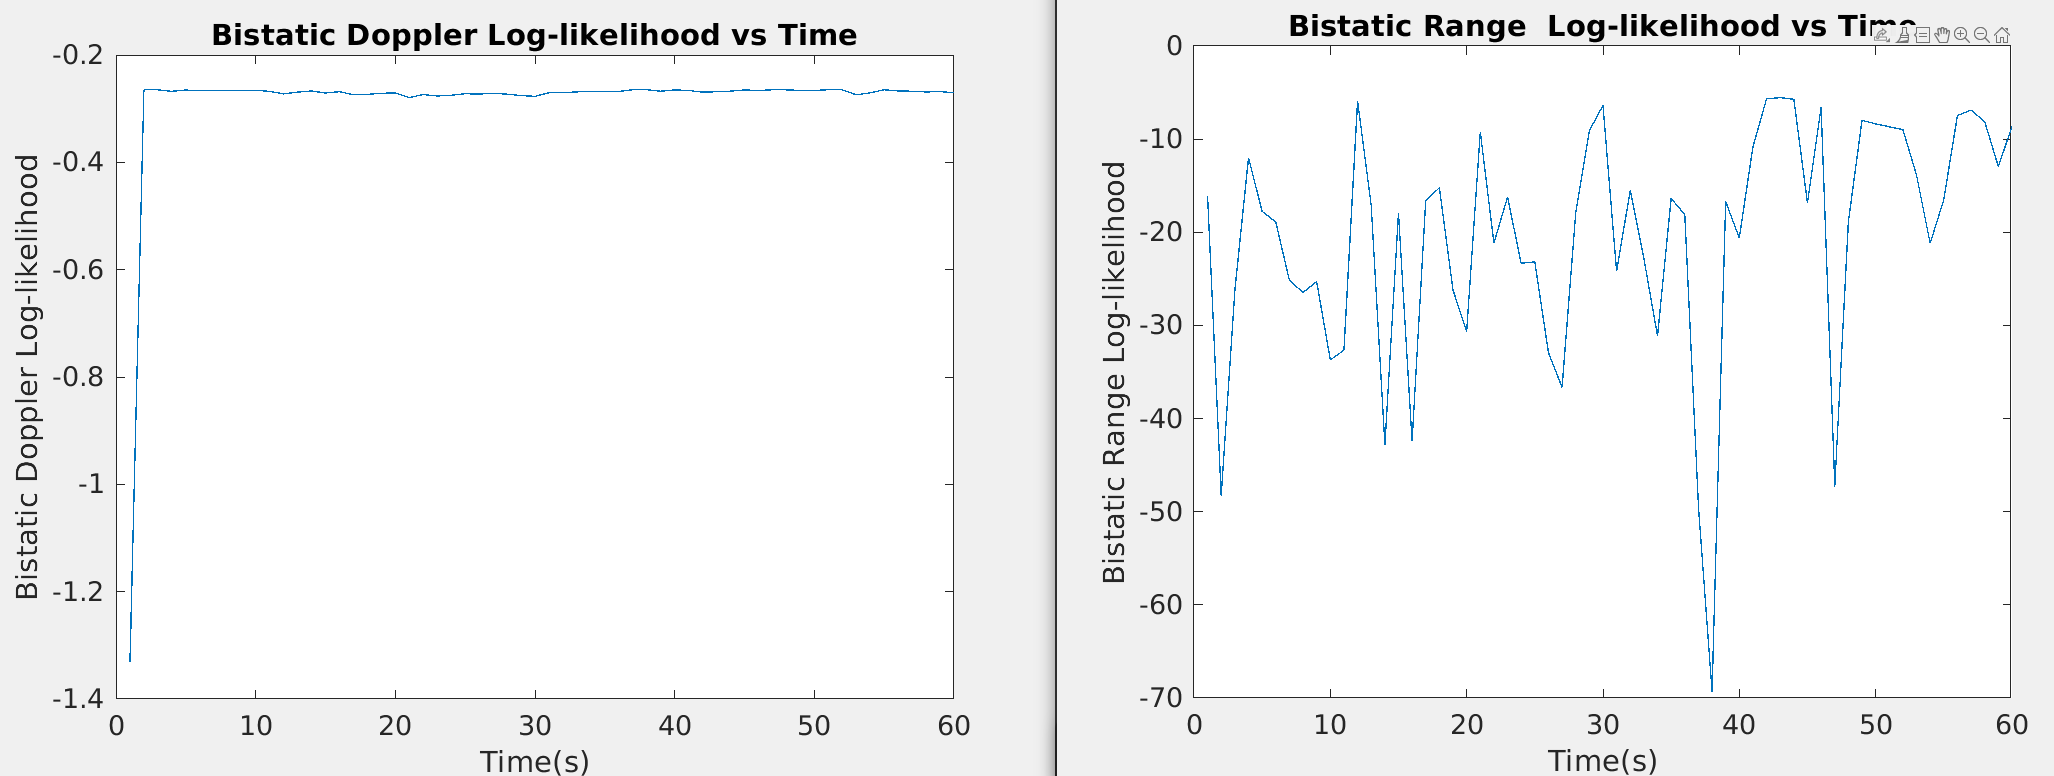
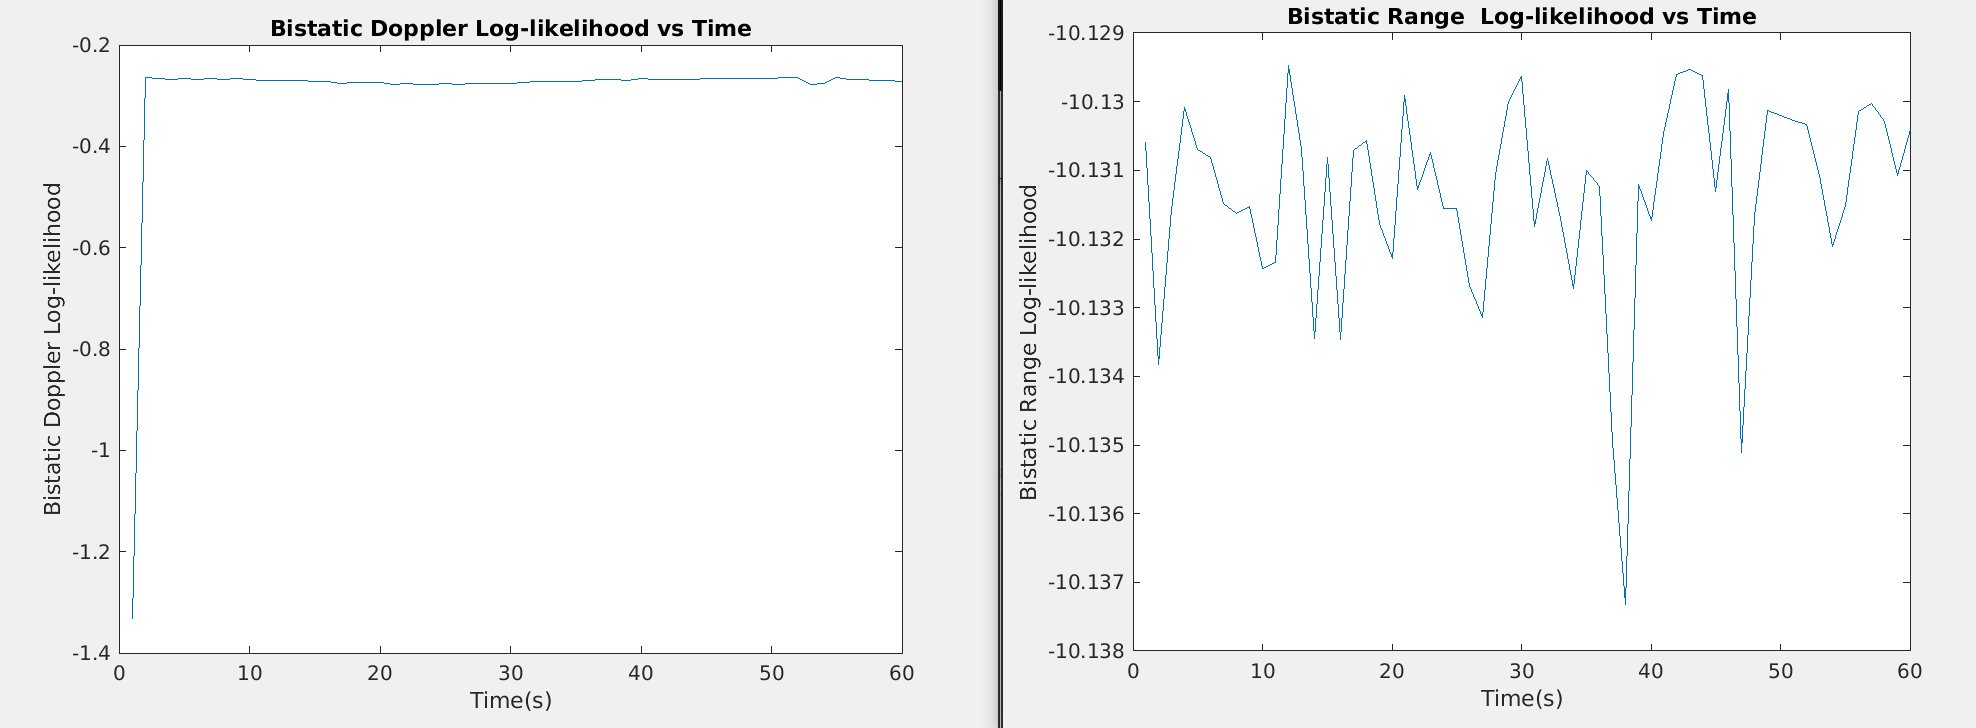
True Data script and plots

diff --git a/FERS/calculateBistatic.m b/FERS/calculateBistatic.m
@@ -41,7 +41,7 @@ speed_xyz = [speed_x;speed_y;speed_z];
 speed_magnitude = norm(delta_position) / delta_time;
 
 % Display the calculated speed
-fprintf('Overall speed: %.2f m/s\n', speed_magnitude);
+%fprintf('Overall speed: %.2f m/s\n', speed_magnitude);
 
 % Calculate the number of time steps
 num_steps = Simulation_time / UpdateInterval;
@@ -79,7 +79,9 @@ for step = 1:num_steps+1
     bistatic_ranges(step) = bistatic_range_ref;
 
     %Calculate the rate of change of the total range with respect to time
+    
     d_total_range_dt = (total_range - prev_total_range) / UpdateInterval;
+    
     prev_total_range = total_range;
     
     % Calculate the Doppler shift
@@ -87,12 +89,28 @@ for step = 1:num_steps+1
     
     bistatic_doppler_shifts(step)=doppler_shift;
 
+     % Calculate the Doppler shift for the previous position
+    if step == 1
+        prev_position = Target_Pos_1 + speed_xyz * UpdateInterval * (step - 2);
+        prev_range_tx_target = norm(prev_position - Tx_Pos);
+        prev_range_ref_target = norm(prev_position - RefRx_Pos);
+        prev_total_range = prev_range_tx_target + prev_range_ref_target;
+        
+        % Calculate the Doppler shift for the previous position
+        prev_doppler_shift = - (1 / wavelength) * ((total_range - prev_total_range) / UpdateInterval);
+        
+        % Store the previous Doppler shift in the matrix
+        bistatic_doppler_shifts(step) = prev_doppler_shift;
+        prev_total_range = total_range;
+    end
+
 end
 
 
-% Save bistatic ranges and Doppler shifts to an HDF5 file
-h5create('output_data.h5', '/bistatic_ranges', size(bistatic_ranges));
-h5write('output_data.h5', '/bistatic_ranges', bistatic_ranges);
 
-h5create('output_data.h5', '/doppler_shifts', size(bistatic_doppler_shifts));
-h5write('output_data.h5', '/doppler_shifts', bistatic_doppler_shifts);
+% Save bistatic ranges and Doppler shifts to an HDF5 file
+h5create('true_data.h5', '/bistatic_ranges', size(bistatic_ranges));
+h5write('true_data.h5', '/bistatic_ranges', bistatic_ranges);
+
+h5create('true_data.h5', '/doppler_shifts', size(bistatic_doppler_shifts));
+h5write('true_data.h5', '/doppler_shifts', bistatic_doppler_shifts);

diff --git a/multiTargetTracking/multiTargetTracker.m b/multiTargetTracking/multiTargetTracker.m
@@ -159,8 +159,8 @@ classdef multiTargetTracker
                 predictedTrack = obj.tracks(j).predictedTrack;
                 
                 
-                range_error(j,1:i) = abs(predictedTrack(1, 1:i));
-                doppler_error(j,1:i)= abs(predictedTrack(2, 1:i));
+                range_error(j,1:i) = predictedTrack(1, 1:i);
+                doppler_error(j,1:i)= predictedTrack(2, 1:i);
                 
             end
 
